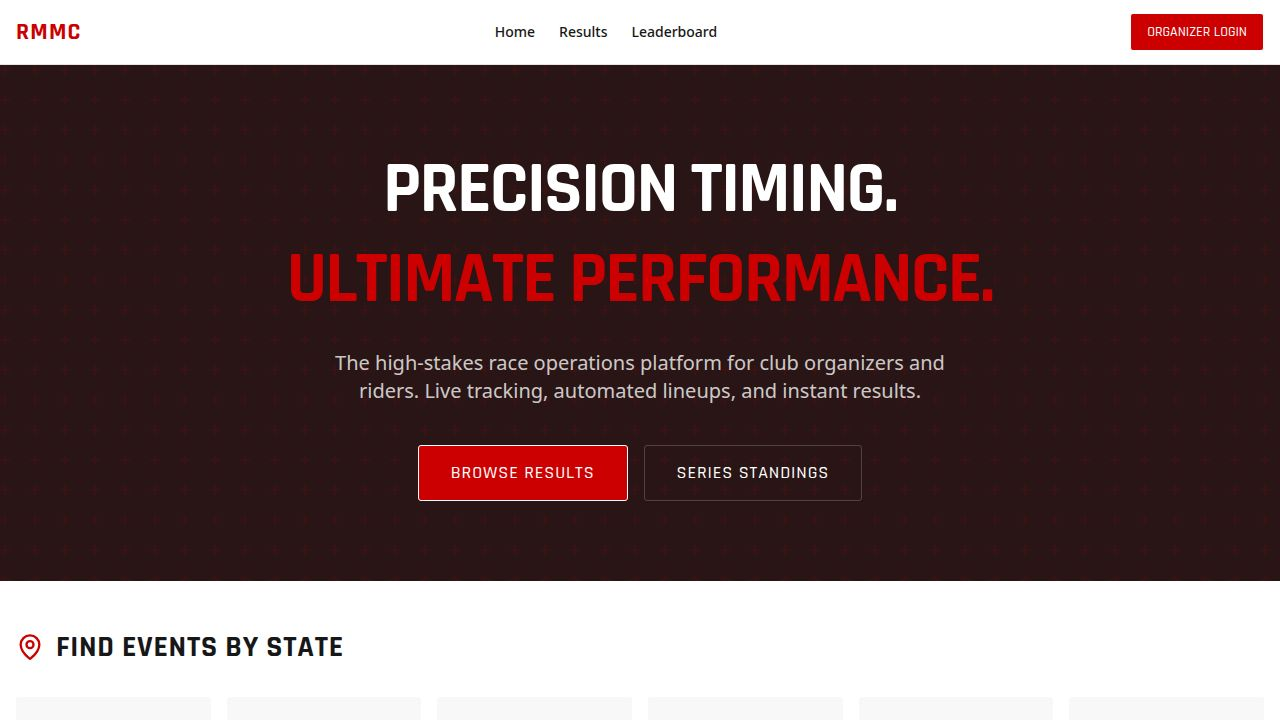
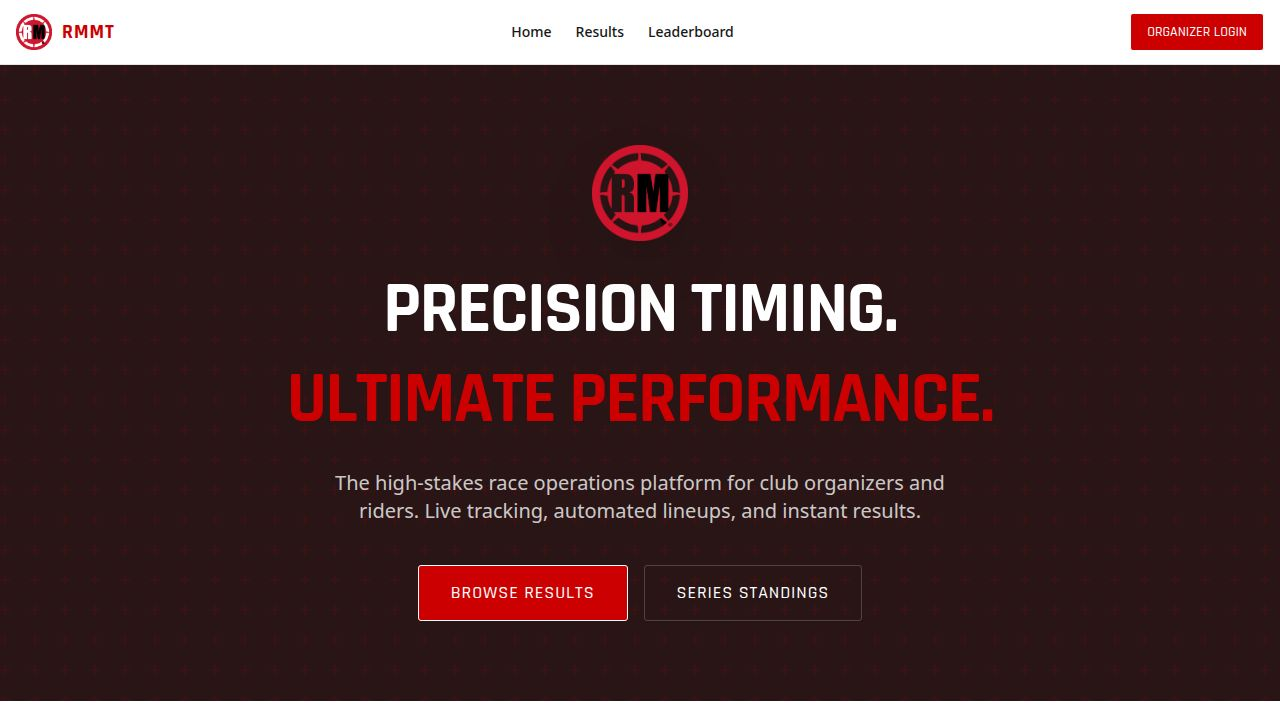
Provide a manual setup link when email invitations fail to send
Update API routes to return a setup URL if email sending fails, and modify the UI to display this URL for manual sharing.

Replit-Commit-Author: Agent
Replit-Commit-Session-Id: 02730d8b-a6a6-45ee-a2a5-f097ff4661a7
Replit-Commit-Checkpoint-Type: full_checkpoint
Replit-Commit-Event-Id: 1b0d11f0-9bec-4597-985e-12fa6726b864
Replit-Commit-Screenshot-Url: https://storage.googleapis.com/screenshot-production-us-central1/36978f52-e0d6-4916-9c67-44414a5d3c20/02730d8b-a6a6-45ee-a2a5-f097ff4661a7/ohKOCMM
Replit-Helium-Checkpoint-Created: true

diff --git a/artifacts/race-platform/src/pages/organizer/UsersAdmin.tsx b/artifacts/race-platform/src/pages/organizer/UsersAdmin.tsx
@@ -9,7 +9,7 @@ import { Dialog, DialogContent, DialogHeader, DialogTitle, DialogTrigger } from 
 import { AlertDialog, AlertDialogAction, AlertDialogCancel, AlertDialogContent, AlertDialogDescription, AlertDialogFooter, AlertDialogHeader, AlertDialogTitle, AlertDialogTrigger } from "@/components/ui/alert-dialog";
 import { Badge } from "@/components/ui/badge";
 import { Table, TableBody, TableCell, TableHead, TableHeader, TableRow } from "@/components/ui/table";
-import { UserCog, Plus, Mail, Trash2, CheckCircle, Clock, RefreshCw } from "lucide-react";
+import { UserCog, Plus, Mail, Trash2, CheckCircle, Clock, RefreshCw, Copy, Check, AlertTriangle } from "lucide-react";
 import { useToast } from "@/hooks/use-toast";
 import { format } from "date-fns";
 
@@ -24,6 +24,9 @@ export default function UsersAdmin() {
   const { toast } = useToast();
 
   const [isCreateOpen, setIsCreateOpen] = useState(false);
+  const [setupLinkUrl, setSetupLinkUrl] = useState<string | null>(null);
+  const [setupLinkName, setSetupLinkName] = useState("");
+  const [copied, setCopied] = useState(false);
   const [name, setName] = useState("");
   const [email, setEmail] = useState("");
   const [role, setRole] = useState("club_organizer");
@@ -38,6 +41,12 @@ export default function UsersAdmin() {
 
   const resetForm = () => { setName(""); setEmail(""); setRole("club_organizer"); setClubIdStr(""); };
 
+  const copyLink = (url: string) => {
+    navigator.clipboard.writeText(url);
+    setCopied(true);
+    setTimeout(() => setCopied(false), 2000);
+  };
+
   const handleCreate = () => {
     if (!name || !email || !role) return;
     createMutation.mutate(
@@ -50,11 +59,16 @@ export default function UsersAdmin() {
         },
       },
       {
-        onSuccess: () => {
+        onSuccess: (data: any) => {
           queryClient.invalidateQueries({ queryKey: getListUsersQueryKey() });
           setIsCreateOpen(false);
           resetForm();
-          toast({ title: "User created", description: "A setup email has been sent to their inbox." });
+          if (data?.setupUrl) {
+            setSetupLinkName(data.name ?? email);
+            setSetupLinkUrl(data.setupUrl);
+          } else {
+            toast({ title: "User created", description: "A setup email has been sent to their inbox." });
+          }
         },
         onError: (err: any) => {
           toast({ title: "Failed to create user", description: err?.message || "Unknown error", variant: "destructive" });
@@ -67,8 +81,13 @@ export default function UsersAdmin() {
     resendMutation.mutate(
       { userId },
       {
-        onSuccess: () => {
-          toast({ title: "Invite resent", description: `Setup email sent to ${userName}.` });
+        onSuccess: (data: any) => {
+          if (data?.setupUrl) {
+            setSetupLinkName(userName);
+            setSetupLinkUrl(data.setupUrl);
+          } else {
+            toast({ title: "Invite resent", description: `Setup email sent to ${userName}.` });
+          }
         },
         onError: () => {
           toast({ title: "Failed to resend", variant: "destructive" });
@@ -165,6 +184,37 @@ export default function UsersAdmin() {
           </DialogContent>
         </Dialog>
       </div>
+
+      {/* Setup link fallback dialog — shown when email delivery fails */}
+      <Dialog open={!!setupLinkUrl} onOpenChange={(v) => { if (!v) { setSetupLinkUrl(null); setCopied(false); } }}>
+        <DialogContent>
+          <DialogHeader>
+            <DialogTitle className="font-heading uppercase text-xl flex items-center gap-2">
+              <AlertTriangle size={18} className="text-yellow-500" /> Email Not Delivered
+            </DialogTitle>
+          </DialogHeader>
+          <div className="space-y-4 py-1">
+            <p className="text-sm text-muted-foreground">
+              The setup email for <span className="font-semibold text-foreground">{setupLinkName}</span> couldn't be delivered — your Resend account needs a verified domain to send to external addresses. Copy this link and share it with them directly.
+            </p>
+            <div className="bg-muted rounded-md p-3 flex items-center gap-2">
+              <code className="text-xs flex-1 break-all text-foreground">{setupLinkUrl}</code>
+              <Button
+                size="sm"
+                variant="outline"
+                className="shrink-0 gap-1.5 font-heading uppercase tracking-wider"
+                onClick={() => setupLinkUrl && copyLink(setupLinkUrl)}
+              >
+                {copied ? <><Check size={14} /> Copied</> : <><Copy size={14} /> Copy</>}
+              </Button>
+            </div>
+            <p className="text-xs text-muted-foreground">
+              This link expires in 72 hours. To fix email delivery permanently, verify your domain at{" "}
+              <a href="https://resend.com/domains" target="_blank" rel="noopener noreferrer" className="text-primary underline">resend.com/domains</a>.
+            </p>
+          </div>
+        </DialogContent>
+      </Dialog>
 
       <Card className="overflow-hidden border-sidebar-border">
         <Table>

diff --git a/artifacts/api-server/src/routes/users.ts b/artifacts/api-server/src/routes/users.ts
@@ -91,7 +91,7 @@ router.post("/users", async (req, res) => {
   const expiresAt = new Date(Date.now() + 72 * 60 * 60 * 1000);
   await db.insert(passwordSetupTokensTable).values({ userId: newUser.id, token, expiresAt });
 
-  await sendSetupEmail({ to: newUser.email, name: newUser.name, token, appUrl: getAppUrl(), isNew: true });
+  const emailResult = await sendSetupEmail({ to: newUser.email, name: newUser.name, token, appUrl: getAppUrl(), isNew: true });
 
   return res.status(201).json({
     id: newUser.id,
@@ -102,6 +102,8 @@ router.post("/users", async (req, res) => {
     clubName: null,
     hasPassword: false,
     createdAt: newUser.createdAt.toISOString(),
+    emailSent: emailResult.ok,
+    setupUrl: emailResult.ok ? undefined : emailResult.setupUrl,
   });
 });
 
@@ -129,9 +131,9 @@ router.post("/users/:userId/resend-invite", async (req, res) => {
   const expiresAt = new Date(Date.now() + 72 * 60 * 60 * 1000);
   await db.insert(passwordSetupTokensTable).values({ userId: user.id, token, expiresAt });
 
-  await sendSetupEmail({ to: user.email, name: user.name, token, appUrl: getAppUrl(), isNew: !user.passwordHash });
+  const emailResult = await sendSetupEmail({ to: user.email, name: user.name, token, appUrl: getAppUrl(), isNew: !user.passwordHash });
 
-  return res.json({ ok: true });
+  return res.json({ ok: true, emailSent: emailResult.ok, setupUrl: emailResult.ok ? undefined : emailResult.setupUrl });
 });
 
 export default router;